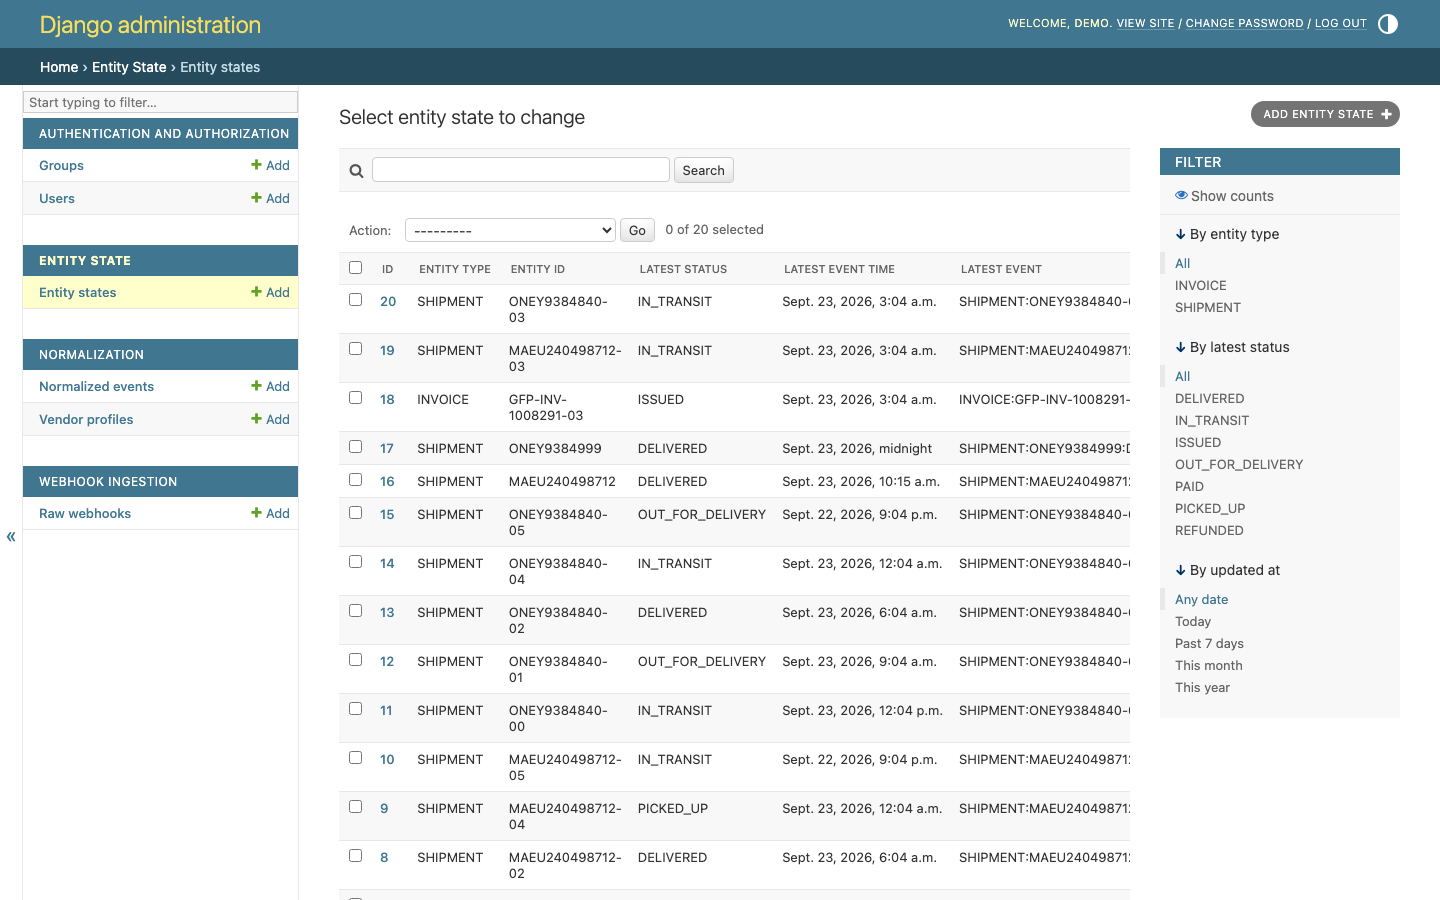
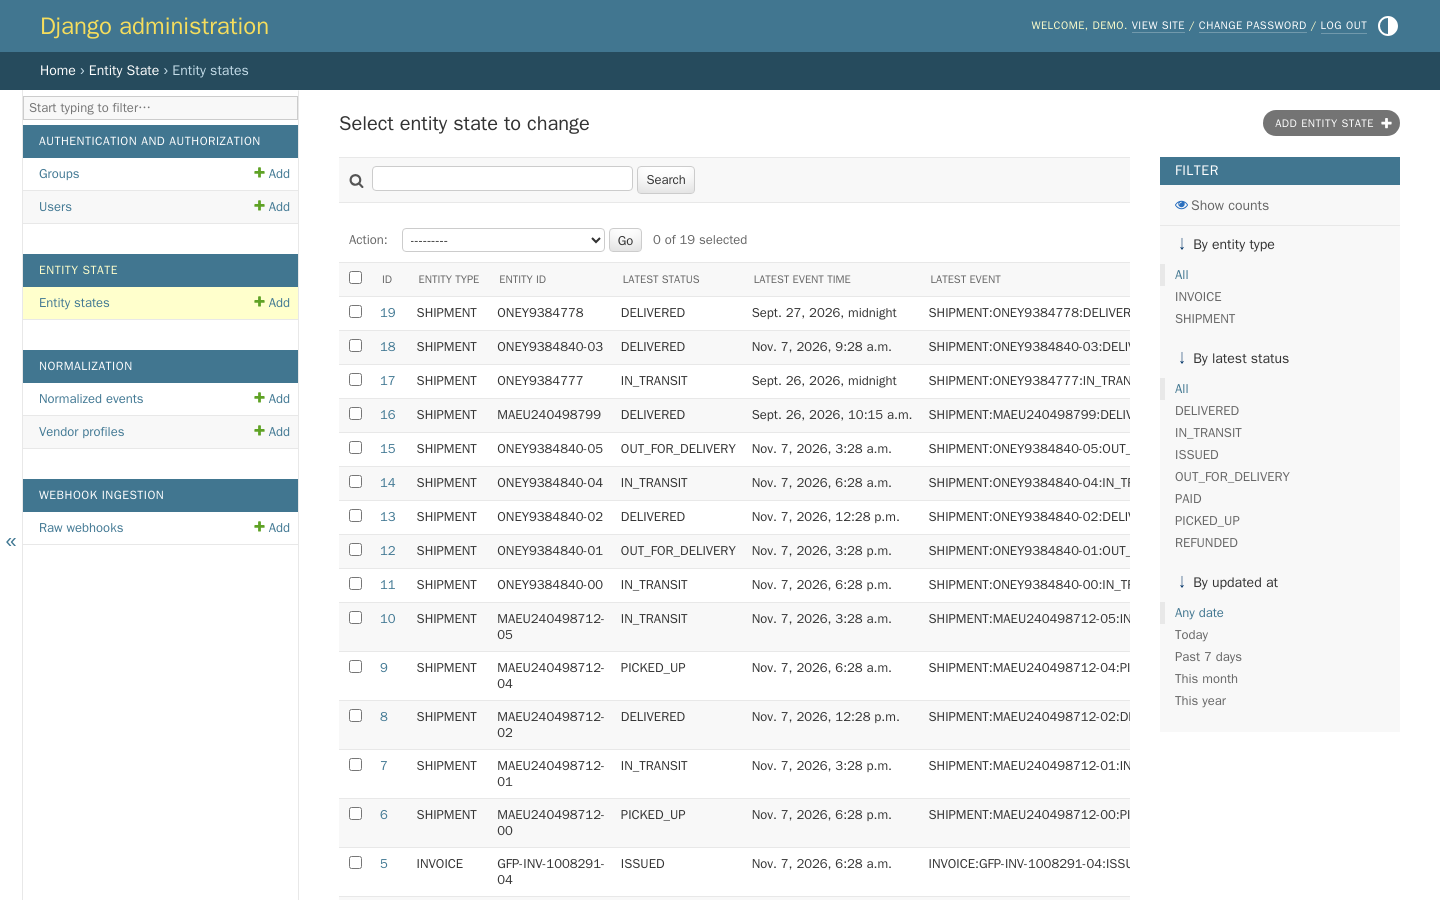
Recapture README examples and admin screenshots from a fresh stack

diff --git a/README.md b/README.md
@@ -22,10 +22,11 @@ docker compose up --build
 This starts PostgreSQL, Redis, the web process and two Celery workers (one per queue), runs
 migrations, creates a `demo` / `demo-password` admin login and seeds 24 webhooks from four
 vendors. Web is on `:8100` (admin at `/admin/`, OpenAPI at `/api/docs/`, liveness at
-`/api/health/`), PostgreSQL on `:8101`, Redis on `:8102`. Without Docker, against local services:
+`/api/health/`), PostgreSQL on `:8101`, Redis on `:8102`. Without Docker, on Python 3.12
+(`.python-version`) and against local services:
 
 ```bash
-uv sync --extra dev
+uv sync --locked --extra dev
 export POSTGRES_HOST=localhost REDIS_URL=redis://localhost:6379/0 CACHE_URL=redis://localhost:6379/2
 python manage.py migrate && python manage.py seed_demo && python manage.py runserver 8100
 celery -A config worker --queues normalization,normalization.bulk --loglevel INFO
@@ -35,13 +36,14 @@ celery -A config worker --queues normalization,normalization.bulk --loglevel INF
 
 ## One webhook, end to end
 
-Output from a local run with no API key set (`-H 'Content-Type: application/json'` omitted). A
-delivery in a vocabulary the normaliser knows goes straight to entity state:
+Captured from a fresh `docker compose up` with no API key set (`-H 'Content-Type:
+application/json'` omitted). A delivery in a vocabulary the normaliser knows goes straight to
+entity state:
 
 ```console
 $ curl -sX POST :8100/api/webhooks/ -H 'X-Webhook-Vendor: Maersk' -H 'Idempotency-Key: MRSK-EVT-2026-000911' \
     -d '{"container_no":"MAEU240498799","event_description":"delivered","event_time":"2026-09-26T10:15:00+00:00"}'
-{"status":"accepted","webhook_id":"04178bb0-6b69-4405-af1d-4cf837865707"}
+{"status":"accepted","webhook_id":"d0de0d0d-d902-40e0-b90e-9522d5c60a57"}
 $ curl -s ':8100/api/entities/state/?entity_type=SHIPMENT&entity_id=MAEU240498799'
 {"entity_type":"SHIPMENT","entity_id":"MAEU240498799","latest_status":"DELIVERED","latest_event_time":"2026-09-26T10:15:00Z","latest_event_id":25}
 ```
@@ -62,7 +64,7 @@ $ grep normalization_held_for_review worker.log
 $ curl -sX POST :8100/api/normalization/review-queue/26/ -d '{"decision":"approve"}'
 {"id":26,"decision":"approve","entity_state_updated":true}
 $ curl -sX POST :8100/api/normalization/review-queue/26/ -d '{"decision":"reject"}'
-{"detail":"event 26 was already reviewed at 2026-10-24 11:24:47.188358+00:00"}   # HTTP 409
+{"detail":"event 26 was already reviewed at 2026-11-07 18:29:25.906767+00:00"}   # HTTP 409
 ```
 
 ## Architecture
@@ -104,7 +106,11 @@ sequenceDiagram
 Three Django apps split the tables: `apps/ingestion` owns `RawWebhook` (signatures, idempotency,
 routing, replay), `apps/normalization` owns `NormalizedEvent` and `VendorProfile` (backends, the
 gate in `review.py`, discovery, calibration), and `apps/entities` owns `EntityState`, one row per
-`(entity_type, entity_id)` pointing at the event that set it. A normalised event's lifecycle:
+`(entity_type, entity_id)` pointing at the event that set it:
+
+![Entity states in the admin, one row per shipment or invoice](docs/screenshots/entity-state.png)
+
+A normalised event's lifecycle:
 
 ```mermaid
 stateDiagram-v2
@@ -119,7 +125,7 @@ stateDiagram-v2
     Rejected --> [*]: EntityState untouched
 ```
 
-![A held invoice event in the admin, confidence 0.3, source status "partially remitted"](docs/screenshots/review-console.png)
+![A held invoice event in the admin, confidence 0.3, source status "settled in full"](docs/screenshots/review-console.png)
 *A held event in the admin: the reading, the fields found and the vendor's original status text.*
 
 ## Design decisions
@@ -128,7 +134,8 @@ stateDiagram-v2
 later means downstream consumers act on a status nobody checked; holding costs operator time and
 latency. The worker calls `apply_confidence_gate()`; the review API and the admin's bulk
 approve/reject actions both call `apply_review_decision()`, so the paths share one rule. A
-decision is final (`409` on a second one) so the audit trail matches what happened.
+decision is final (`409` on a second one) so the audit trail matches what happened, and it is
+checked under a row lock so two reviewers acting at once cannot both win.
 
 **Score by the weakest signal.** The rule backend scores entity type,
 status and timestamp separately and takes the minimum. An average would let a confidently
@@ -138,13 +145,16 @@ pins the exact-threshold case so it cannot flip to `<=` unnoticed.
 **Teach the vendor rather than review it forever.** `POST /api/normalization/vendor-profiles/discover/`
 takes a handful of sample payloads and proposes where the id, status and timestamp live, plus a
 status map. It runs statistically with no key; with a key, a model's proposal is merged on top,
-but every path it suggests must exist in the samples and every status must be canonical.
-Phrases it cannot map are reported, never invented:
+but every path it suggests must exist in the samples and every status must be canonical; a
+malformed reply falls back to the statistical reading. Phrases it cannot map are reported, never
+invented:
 
 ```console
 {"method":"statistical","sample_count":4,"unmapped_statuses":["cargo_released_to_consignee"],
- "profile":{"vendor":"Ocean Network Express","id_paths":["shipment_reference"],
-   "status_map":{"delivered":"DELIVERED","in_transit":"IN_TRANSIT"}},"persisted":true}
+ "warnings":[],"profile":{"vendor":"Ocean Network Express","entity_type":"SHIPMENT",
+   "id_paths":["shipment_reference"],"status_paths":["status_text"],"time_paths":["occurred_at"],
+   "status_map":{"delivered":"DELIVERED","in_transit":"IN_TRANSIT"},"source":"DISCOVERED",
+   "sample_count":4,"notes":""},"persisted":true}
 ```
 
 A person adds the missing word (`PUT /vendor-profiles/{vendor}/` or the admin) and replays the
@@ -184,7 +194,7 @@ is down routing falls back to the default queue.
 |---|---|
 | `POST /api/webhooks/` | Ingest. `202`; `400` for a non-object payload; `401` for a bad signature |
 | `POST /api/webhooks/{id}/replay/` | Re-run a stored payload. `409` while in flight unless `{"force": true}` |
-| `GET /api/entities/state/?entity_type=&entity_id=` | Current status of one entity |
+| `GET /api/entities/state/?entity_type=&entity_id=` | Current status of one entity (type in any case) |
 | `GET /api/normalization/review-queue/` | Held, undecided events. `?vendor=&limit=&offset=` |
 | `POST /api/normalization/review-queue/{id}/` | `{"decision": "approve"}` or `"reject"`; `409` if decided |
 | `GET /api/normalization/low-confidence/` | All events under a threshold, whatever the gate did |
@@ -192,20 +202,26 @@ is down routing falls back to the default queue.
 | `GET/PUT/DELETE /api/normalization/vendor-profiles/{vendor}/` | Vendor profile CRUD (list at `/vendor-profiles/`) |
 | `POST /api/normalization/vendor-profiles/discover/` | Propose a profile from samples |
 
+![Swagger UI at /api/docs/ listing the endpoints](docs/screenshots/api-docs.png)
+
 `manage.py calibration_report` prints the calibration table. It can show the threshold is too
 high (approvals piling up below it) but cannot show it is too low: events above it are never reviewed.
 
 ## Testing
 
+With the compose stack running:
+
 ```bash
-POSTGRES_HOST=localhost python -m pytest -q   # 270 passed
-ruff check . && ruff format --check .
+docker compose exec web python -m pytest      # 282 passed
+docker compose exec web sh -c 'ruff check . && ruff format --check .'
 ```
 
-It needs a real PostgreSQL (`SELECT ... FOR UPDATE`, a partial index) and makes no network calls:
-the OpenAI client is mocked and an autouse fixture clears `OPENAI_API_KEY`. Tests focus on the gate
+Outside Docker, `POSTGRES_HOST=localhost python -m pytest` does the same. The suite needs a real
+PostgreSQL (`SELECT ... FOR UPDATE`, a partial index) and makes no network calls: the OpenAI
+client is mocked and an autouse fixture clears `OPENAI_API_KEY`. Tests focus on the gate
 boundary, the retry ladder ending in `DEAD_LETTER`, redelivery by header, event id and hash, forged
-signatures, out-of-order events, routing, discovery and calibration.
+signatures, out-of-order events, routing, discovery and calibration, and on what a model can get
+wrong: a NaN confidence, a reply that is not an object, a status map that crosses entity types.
 
 ## Limitations and next steps
 
@@ -215,3 +231,7 @@ signatures, out-of-order events, routing, discovery and calibration.
 - **Per-type thresholds.** One threshold covers every vendor and entity type; invoices probably deserve a higher bar.
 - **Fair scheduling.** The bulk lane is a bulkhead only, and without `CACHE_URL` each gunicorn worker counts separately.
 - **Dead-letter triage.** Dead-lettered webhooks are replayable one at a time; there is no bulk requeue.
+
+## License
+
+MIT, see [LICENSE](LICENSE).
